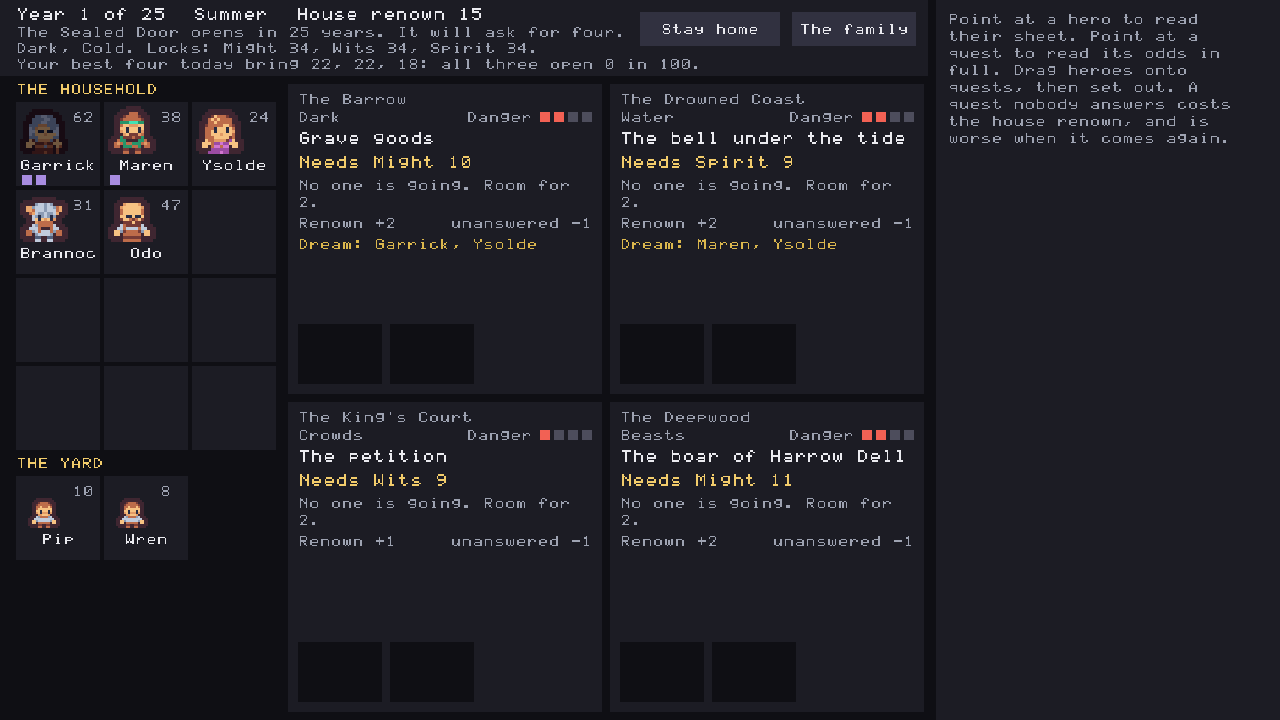
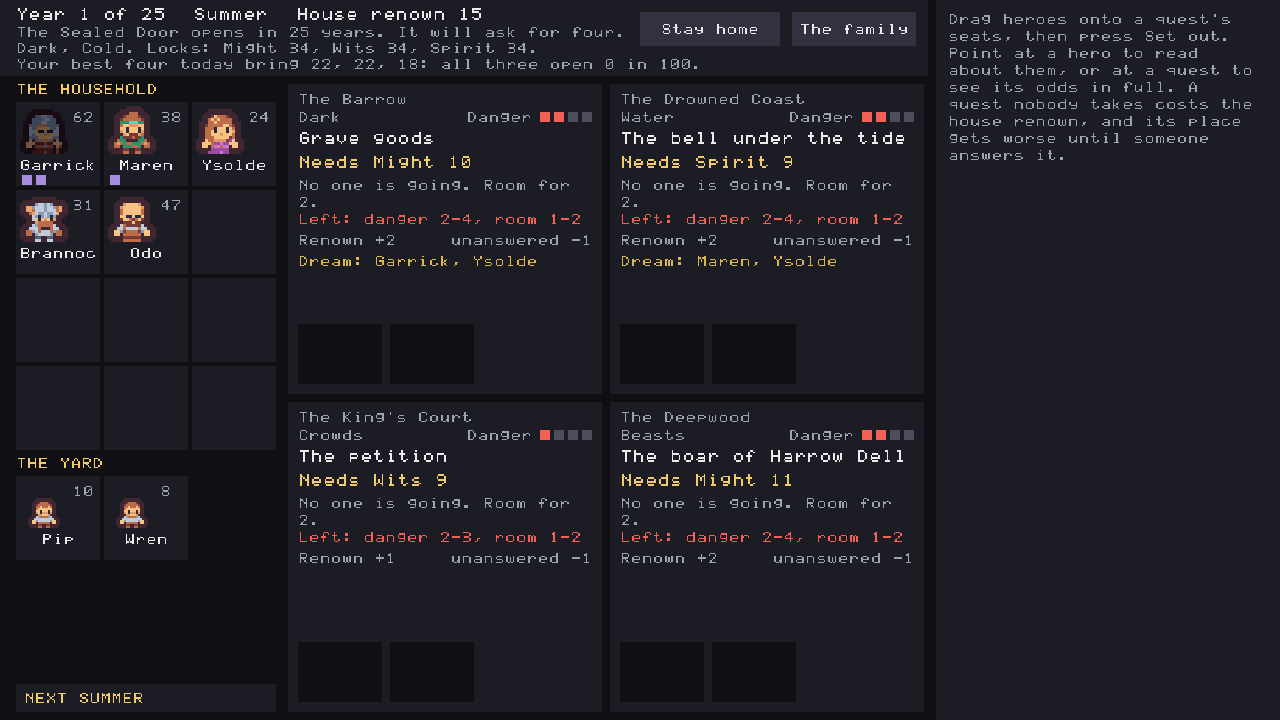
keifu: recapture the screens the r2 surfaces changed; record the mutation rounds
Two new pictures (r2-outlook, r2-telegraph); seven re-taken. No engine doc impact.

diff --git a/games/keifu/FINDINGS.md b/games/keifu/FINDINGS.md
@@ -1392,4 +1392,17 @@ already use. Not a separate screen, but not at a glance either: a playtest quest
 - **The checks** (`r2_checks.rs`): on 27 recorded seeds, year 1 left, the year-2 board held against what the
   cards, sheets and foresight said; seating on Grave goods turning the Barrow calm; a staged ghost foreseen
   and posted. Shipped literals for year 1's two forced quests and two unit-test cases worked by hand.
-- **The mutation round:** `mutants/r2.txt`, 19 faults — see the PR for the score.
+- **The mutation round.** `mutants/r2.txt`, 19 faults (the trouble functions, the telegraph's templates, year,
+  wobble and lines, the foresight's three cases, the ghost, the Door's year, the demand step, the dice swing, the
+  label, the dock subject, the card's draw). Round one on `8df7278`: **18 of 19** — R16 (a seated card's reading
+  carrying a telegraph) escaped because the board view draws it only on an empty card; `quest_card.rs` now asserts
+  the reading itself, and R16 is noticed on `22454f1`. Then every list filtered to the files this task touched
+  (`tools/mutate keifu mutants/*.txt --fast --changed-since e2e1c21`, on `22454f1`): **175 of 176 noticed**, none
+  unbuilt (tests alone 81) — `r2.txt` 19 of 19; the one escape is w4 K8, a known equivalent. Three w6 faults (U1,
+  R9, R10) named code this task moved into `resolve::risen_trouble`/`eased_trouble` and were re-cut to the same
+  fault there, marked "(re-cut r2)".
+- **The pictures** (each opened): `screens/r2-outlook.png` (the foresight open in the dock beside year 1's empty
+  cards and their telegraph lines) and `screens/r2-telegraph.png` (Grave goods' sheet with the rewritten dice block
+  and the telegraph line); `dock-idle`, `dock-scrolled`, `w0-w1-garrick`, `w1-wren-child`, `w10-reset` re-taken for
+  the NEXT SUMMER label and the card lines, `w10-door-card`/`w10-door-empty` for the help's new words (the last
+  summer has no label).
